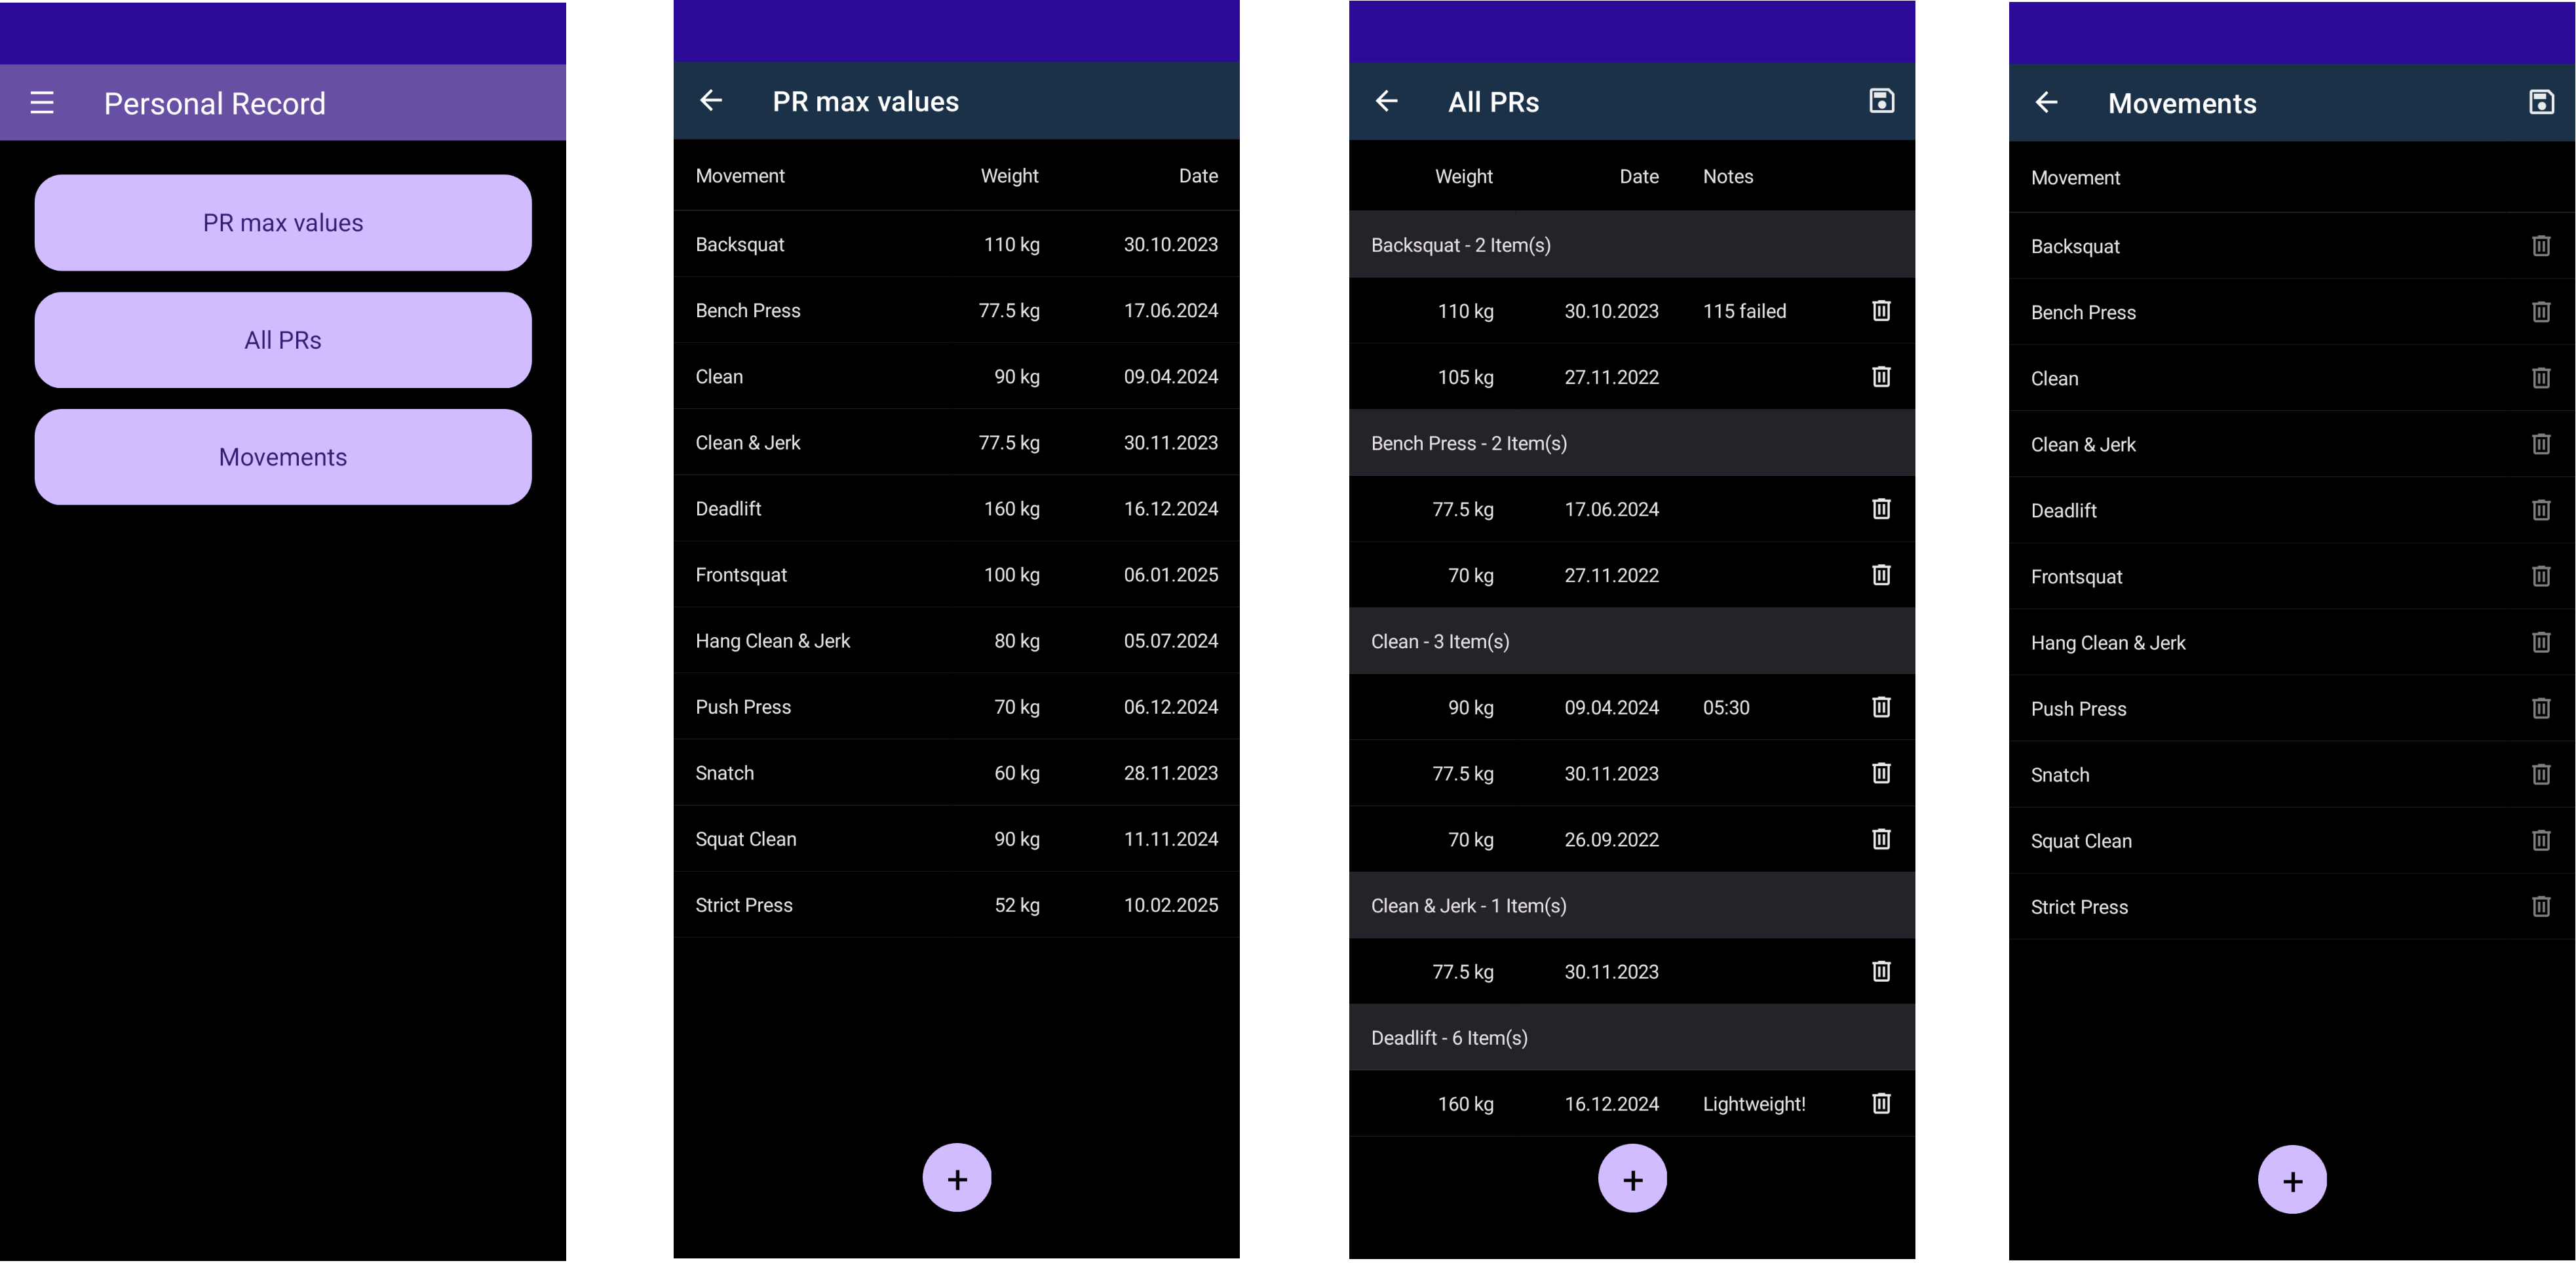
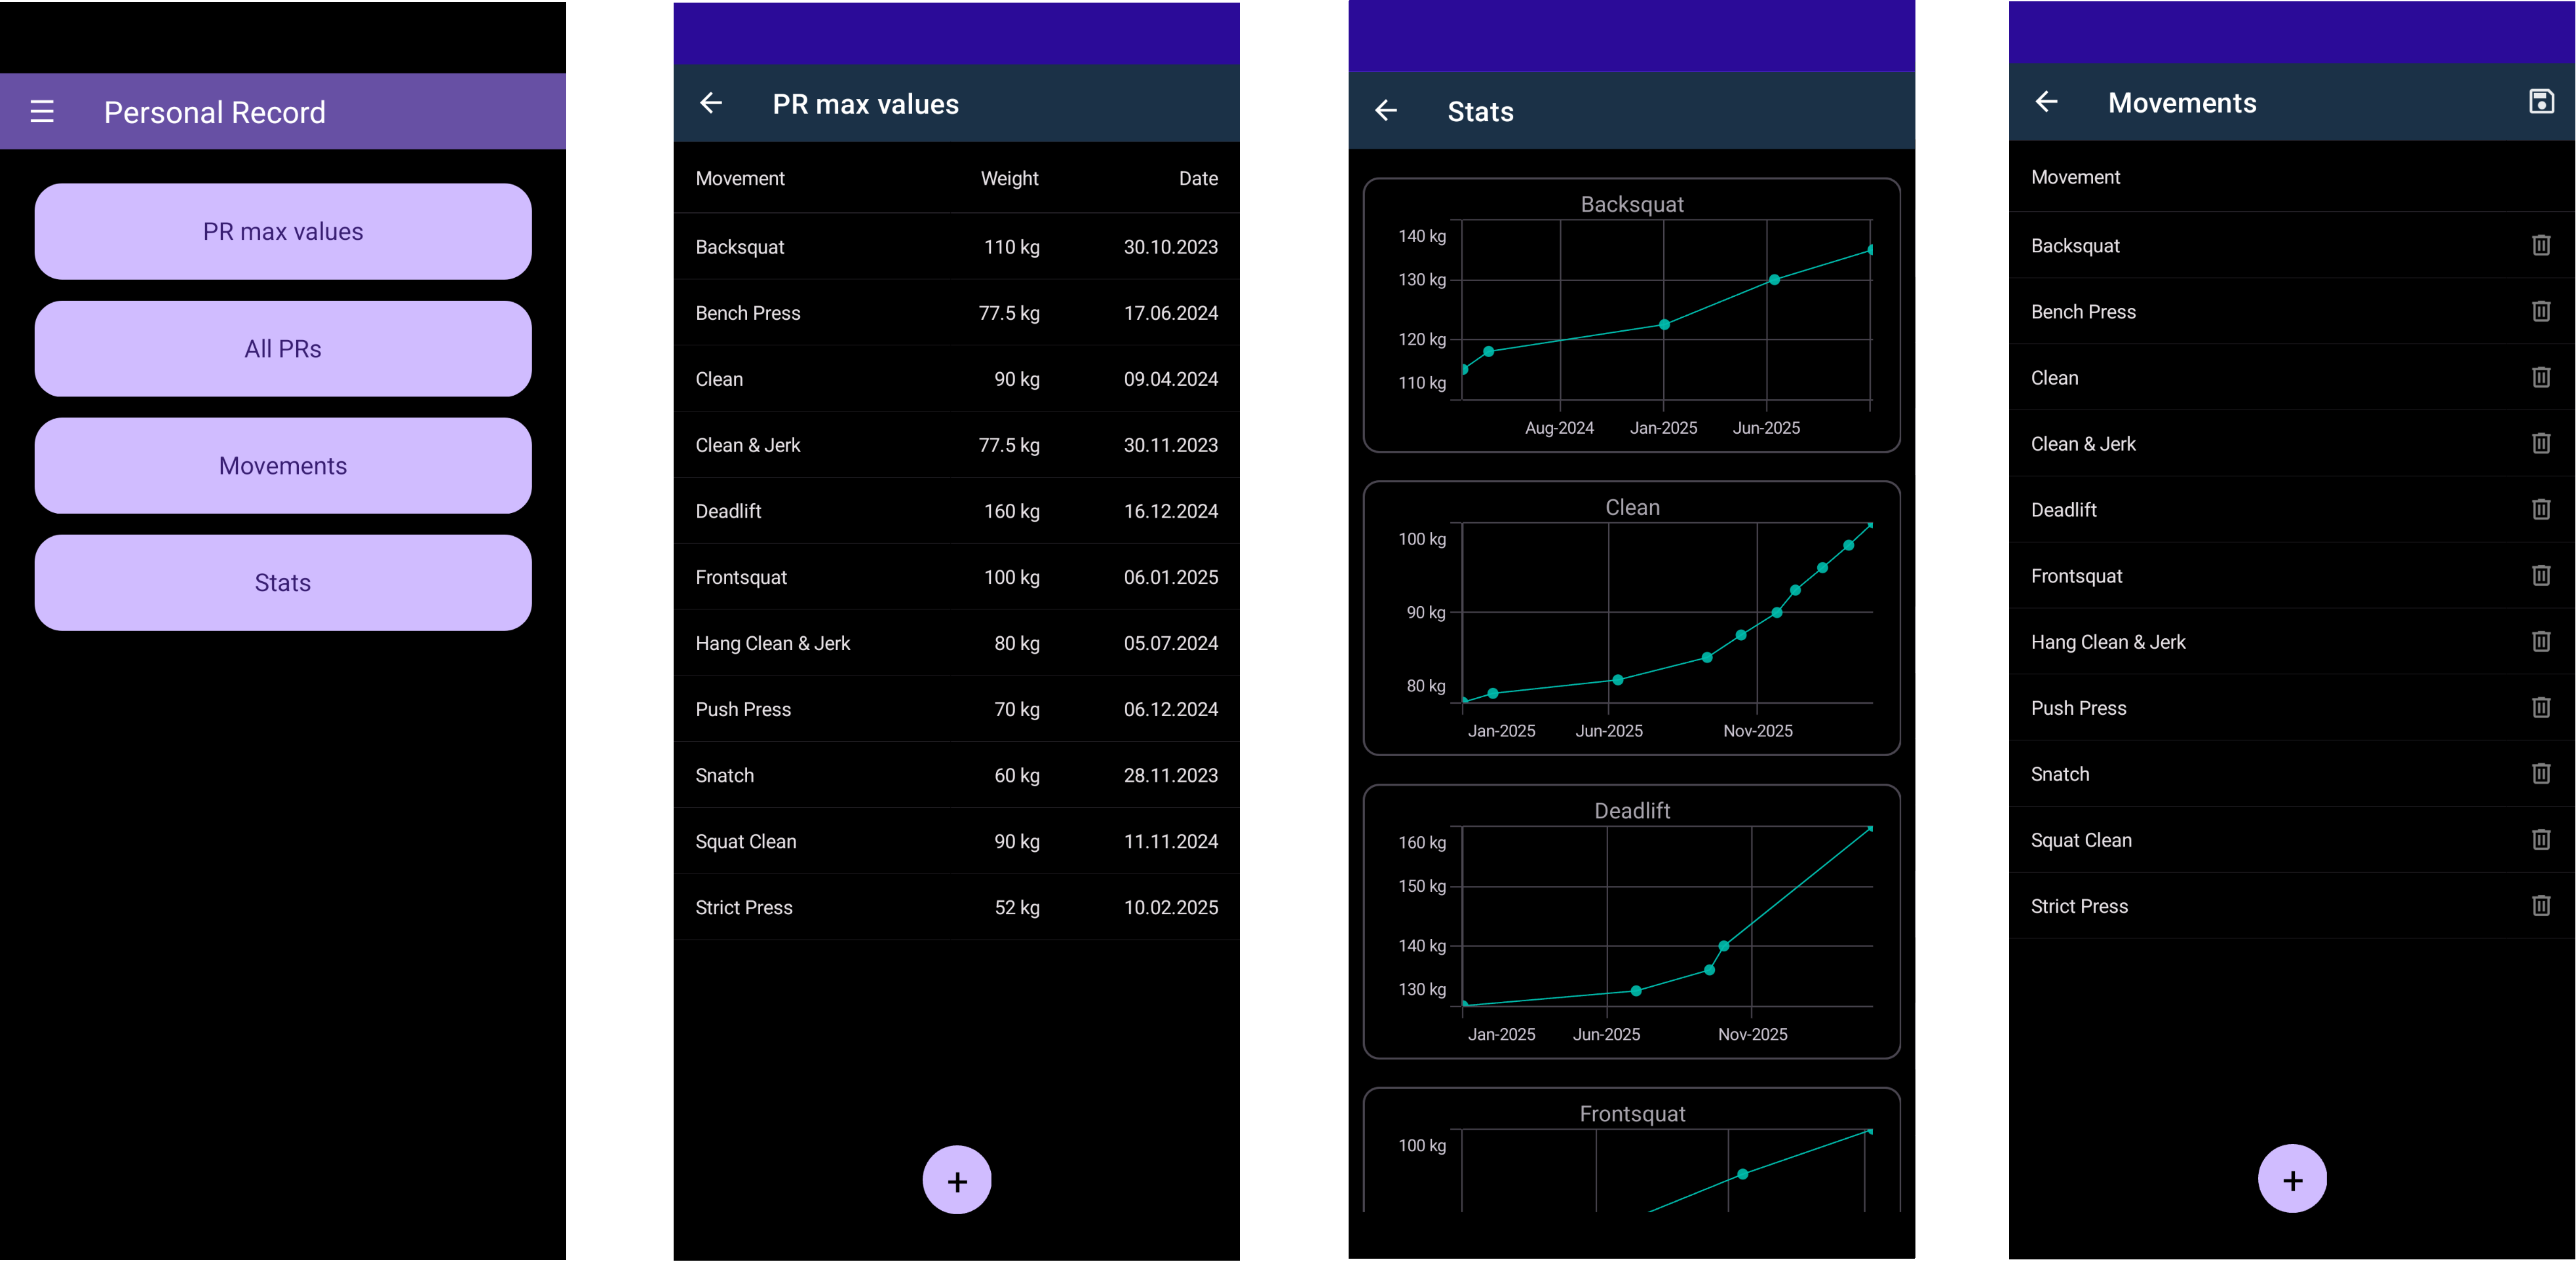
Merge pull request #64 from Ramo-Y/feature/Stats-view-and-ui-enhancement
Add stats view, update components, and use CPM

Pull request: Add stats view, update components, and use CPM

diff --git a/src/PersonalRecord.App/Views/StatsView.xaml b/src/PersonalRecord.App/Views/StatsView.xaml
@@ -1,0 +1,71 @@
+<?xml version="1.0" encoding="utf-8" ?>
+<ContentPage xmlns="http://schemas.microsoft.com/dotnet/2021/maui"
+             xmlns:x="http://schemas.microsoft.com/winfx/2009/xaml"
+             x:Class="PersonalRecord.App.Views.StatsView"
+             xmlns:chart="clr-namespace:Syncfusion.Maui.Charts;assembly=Syncfusion.Maui.Charts"
+             xmlns:cards="clr-namespace:Syncfusion.Maui.Cards;assembly=Syncfusion.Maui.Cards"
+             xmlns:viewModels="clr-namespace:PersonalRecord.App.ViewModels"
+             xmlns:entities="clr-namespace:PersonalRecord.Domain.Models.Entities;assembly=PersonalRecord.Domain"
+             xmlns:resources="clr-namespace:PersonalRecord.Infrastructure.Resources.Languages;assembly=PersonalRecord.Infrastructure"
+             x:DataType="viewModels:StatsViewModel"
+             Title="{x:Static resources:AppResources.Stats}">
+    <Grid>
+        <Grid.ColumnDefinitions>
+            <ColumnDefinition Width="10"/>
+            <ColumnDefinition Width="*"/>
+            <ColumnDefinition Width="10"/>
+        </Grid.ColumnDefinitions>
+        <Grid.RowDefinitions>
+            <RowDefinition Height="10"/>
+            <RowDefinition Height="*"/>
+            <RowDefinition Height="10"/>
+        </Grid.RowDefinitions>
+
+        <ScrollView Grid.Column="1"
+                    Grid.Row="1">
+            <StackLayout BindableLayout.ItemsSource="{Binding MovementRecordGroups}">
+                <BindableLayout.ItemTemplate>
+                    <DataTemplate x:DataType="entities:MovementRecordGroup">
+                        <cards:SfCardView Margin="0,10,0,10"
+                                          BorderWidth="3">
+                            <cards:SfCardLayout BackgroundColor="{AppThemeBinding Dark={StaticResource BackgroundBlack}, Light={StaticResource BackgroundWhite}}">
+                                <chart:SfCartesianChart>
+                                    <chart:SfCartesianChart.XAxes>
+                                        <chart:DateTimeAxis />
+                                    </chart:SfCartesianChart.XAxes>
+
+                                    <chart:SfCartesianChart.YAxes>
+                                        <chart:NumericalAxis>
+                                            <chart:NumericalAxis.LabelStyle>
+                                                <chart:ChartAxisLabelStyle LabelFormat="{Binding Source={RelativeSource AncestorType={x:Type viewModels:StatsViewModel}}, Path=Setting.WeightUnitFormat}" />
+                                            </chart:NumericalAxis.LabelStyle>
+                                        </chart:NumericalAxis>
+                                    </chart:SfCartesianChart.YAxes>
+
+                                    <chart:SfCartesianChart.Title>
+                                        <Label Text="{Binding GroupName}"
+                                               TextColor="{AppThemeBinding Dark={StaticResource LabelTextDark}, Light={StaticResource LabelTextLight}}"
+                                               BackgroundColor="{AppThemeBinding Dark={StaticResource BackgroundBlack}, Light={StaticResource BackgroundWhite}}"
+                                               HorizontalOptions="Fill"
+                                               HorizontalTextAlignment="Center"
+                                               VerticalOptions="Center"
+                                               FontSize="16" />
+                                    </chart:SfCartesianChart.Title>
+
+                                    <chart:LineSeries EnableTooltip="True"
+                                                      EnableAnimation="True"
+                                                      StrokeWidth="1"
+                                                      ShowMarkers="True"
+                                                      ItemsSource="{Binding MovementRecords}"
+                                                      XBindingPath="MvrDate"
+                                                      YBindingPath="MvrWeight">
+                                    </chart:LineSeries>
+                                </chart:SfCartesianChart>
+                            </cards:SfCardLayout>
+                        </cards:SfCardView>
+                    </DataTemplate>
+                </BindableLayout.ItemTemplate>
+            </StackLayout>
+        </ScrollView>
+    </Grid>
+</ContentPage>

diff --git a/src/PersonalRecord.App/Views/MainView.xaml b/src/PersonalRecord.App/Views/MainView.xaml
@@ -4,6 +4,7 @@
              x:Class="PersonalRecord.App.Views.MainView"
              x:Name="MainViewXaml"
              xmlns:viewModels="clr-namespace:PersonalRecord.App.ViewModels"
+             xmlns:app="clr-namespace:PersonalRecord.App"
              xmlns:button="clr-namespace:Syncfusion.Maui.Buttons;assembly=Syncfusion.Maui.Buttons"
              xmlns:navigationdrawer="clr-namespace:Syncfusion.Maui.NavigationDrawer;assembly=Syncfusion.Maui.NavigationDrawer"
              xmlns:popup="clr-namespace:Syncfusion.Maui.Popup;assembly=Syncfusion.Maui.Popup"
@@ -22,6 +23,8 @@
                     <Grid.RowDefinitions>
                         <RowDefinition Height="55"/>
                         <RowDefinition Height="25"/>
+                        <RowDefinition Height="70"/>
+                        <RowDefinition Height="15"/>
                         <RowDefinition Height="70"/>
                         <RowDefinition Height="15"/>
                         <RowDefinition Height="70"/>
@@ -56,17 +59,26 @@
                     <button:SfButton Grid.Column="1" Grid.Row="2"
                                      Text="{x:Static resources:AppResources.PersonalRecordMaxes}"
                                      FontSize="Medium"
-                                     Command="{Binding GoToPersonalRecordMaxesViewCommand}"/>
+                                     Command="{Binding GoToViewCommand}"
+                                     CommandParameter="{x:Static app:Routes.PersonalRecordMaxesView}"/>
 
                     <button:SfButton Grid.Column="1" Grid.Row="4"
                                      Text="{x:Static resources:AppResources.PersonalRecordsAll}"
                                      FontSize="Medium"
-                                     Command="{Binding GoToPersonalRecordAllViewCommand}"/>
+                                     Command="{Binding GoToViewCommand}"
+                                     CommandParameter="{x:Static app:Routes.PersonalRecordAllView}"/>
 
                     <button:SfButton Grid.Column="1" Grid.Row="6"
                                      Text="{x:Static resources:AppResources.Movements}"
                                      FontSize="Medium"
-                                     Command="{Binding GoToMovementsViewCommand}"/>
+                                     Command="{Binding GoToViewCommand}"
+                                     CommandParameter="{x:Static app:Routes.MovementsView}"/>
+
+                    <button:SfButton Grid.Column="1" Grid.Row="8"
+                                     Text="{x:Static resources:AppResources.Stats}"
+                                     FontSize="Medium"
+                                     Command="{Binding GoToViewCommand}"
+                                     CommandParameter="{x:Static app:Routes.StatsView}"/>
                 </Grid>
             </navigationdrawer:SfNavigationDrawer.ContentView>
 
@@ -127,7 +139,8 @@
                                              ImageSource="{AppThemeBinding Dark=settings_dark_theme.svg, Light=settings_light_theme.svg}"
                                              ShowIcon="True"
                                              Style="{StaticResource SfButtonCustomStyle}"
-                                             Command="{Binding GoToSettingsViewCommand}"/>
+                                             Command="{Binding GoToViewCommand}"
+                                             CommandParameter="{x:Static app:Routes.SettingsView}"/>
 
                             <button:SfButton Grid.Column="1" Grid.Row="2"
                                              Text="{x:Static resources:AppResources.ReportAProblem}"

diff --git a/src/PersonalRecord.App/Views/PersonalRecordDetailView.xaml b/src/PersonalRecord.App/Views/PersonalRecordDetailView.xaml
@@ -61,8 +61,8 @@
                                        Margin="5, 0"
                                        ContainerType="Outlined"
                                        Hint="{x:Static resources:AppResources.Notes}">
-            <Entry x:Name="customEntry" Text="{Binding MovementRecord.MvrNotes}">
-            </Entry>
+            <Entry x:Name="notesEntry"
+                   Text="{Binding MovementRecord.MvrNotes}" />
         </inputLayout:SfTextInputLayout>
 
         <button:SfButton Grid.Column="0" Grid.Row="9"

diff --git a/src/PersonalRecord.App/App.xaml b/src/PersonalRecord.App/App.xaml
@@ -15,6 +15,8 @@
             <!-- Custom colors -->
             <Color x:Key="TextWhite">#FFFFFF</Color>
             <Color x:Key="TextBlack">#000000</Color>
+            <Color x:Key="BackgroundWhite">#FFFFFF</Color>
+            <Color x:Key="BackgroundBlack">#000000</Color>
             <Color x:Key="TransparentBackground">#00FFFFFF</Color>
             <Color x:Key="LogoBackgroundColor">#00E1FB</Color>
             <Color x:Key="ToolBarBackgroundColor">#6750A4</Color>

diff --git a/src/PersonalRecord.App/ViewModels/StatsViewModel.cs b/src/PersonalRecord.App/ViewModels/StatsViewModel.cs
@@ -1,0 +1,59 @@
+namespace PersonalRecord.App.ViewModels
+{
+    using CommunityToolkit.Mvvm.ComponentModel;
+    using PersonalRecord.Domain.Interfaces;
+    using PersonalRecord.Domain.Models.Entities;
+    using PersonalRecord.Infrastructure;
+    using PersonalRecord.Services.Interfaces;
+    using System.Collections.ObjectModel;
+    using System.Linq;
+
+    public partial class StatsViewModel : ObservableObject
+    {
+        private readonly IMovementRecordRepository _movementRecordRepository;
+        private readonly ISettingsService _settingsService;
+
+        [ObservableProperty]
+        private ObservableCollection<MovementRecordGroup> _movementRecordGroups;
+
+        [ObservableProperty]
+        private Setting _setting;
+
+        public StatsViewModel(
+            IMovementRecordRepository movementRecordRepository,
+            ISettingsService settingsService)
+        {
+            _movementRecordRepository = movementRecordRepository;
+            _settingsService = settingsService;
+
+            MovementRecordGroups = [];
+
+            LoadItems();
+        }
+
+        private void LoadItems()
+        {
+            MainThread.BeginInvokeOnMainThread(async () =>
+            {
+                var movementRecords = await _movementRecordRepository.GetAllMovementRecordsAsync();
+                movementRecords = movementRecords.OrderBy(m => m.Movement.MovName)
+                                                 .ThenByDescending(m => m.MvrDate);
+
+                var grouped = movementRecords
+                                    .GroupBy(record => record.Movement.MovName)
+                                    .Select(group => new MovementRecordGroup
+                                    {
+                                        GroupName = group.Key,
+                                        MovementRecords = new ObservableCollection<MovementRecord>([.. group])
+                                    });
+
+                foreach (var group in grouped)
+                {
+                    MovementRecordGroups.Add(group);
+                }
+
+                Setting = _settingsService.GetSettings();
+            });
+        }
+    }
+}

diff --git a/src/PersonalRecord.App/ViewModels/MainViewModel.cs b/src/PersonalRecord.App/ViewModels/MainViewModel.cs
@@ -5,7 +5,6 @@
     using PersonalRecord.Infrastructure.Constants;
     using PersonalRecord.Infrastructure.Resources.Languages;
     using PersonalRecord.Services.Interfaces;
-    using System.Text;
 
     public partial class MainViewModel : ObservableObject
     {
@@ -47,27 +46,9 @@
         }
 
         [RelayCommand]
-        public async Task GoToPersonalRecordMaxesViewAsync()
+        public async Task GoToViewAsync(string route)
         {
-            await _navigationService.GoToAsync(Routes.PersonalRecordMaxesView);
-        }
-
-        [RelayCommand]
-        public async Task GoToMovementsViewAsync()
-        {
-            await _navigationService.GoToAsync(Routes.MovementsView);
-        }
-
-        [RelayCommand]
-        public async Task GoToPersonalRecordAllViewAsync()
-        {
-            await _navigationService.GoToAsync(Routes.PersonalRecordAllView);
-        }
-
-        [RelayCommand]
-        public async Task GoToSettingsViewAsync()
-        {
-            await _navigationService.GoToAsync(Routes.SettingsView);
+            await _navigationService.GoToAsync(route);
         }
 
         [RelayCommand]

diff --git a/src/PersonalRecord.App/Views/StatsView.xaml.cs b/src/PersonalRecord.App/Views/StatsView.xaml.cs
@@ -1,0 +1,14 @@
+using PersonalRecord.App.ViewModels;
+
+namespace PersonalRecord.App.Views
+{
+    public partial class StatsView : ContentPage
+    {
+        public StatsView(StatsViewModel viewModel)
+        {
+            InitializeComponent();
+
+            BindingContext = viewModel;
+        }
+    }
+}

diff --git a/src/PersonalRecord.Domain/Models/Entities/MovementRecordGroup.cs b/src/PersonalRecord.Domain/Models/Entities/MovementRecordGroup.cs
@@ -1,0 +1,11 @@
+namespace PersonalRecord.Domain.Models.Entities
+{
+    using System.Collections.ObjectModel;
+
+    public class MovementRecordGroup
+    {
+        public string GroupName { get; set; }
+
+        public ObservableCollection<MovementRecord> MovementRecords { get; set; }
+    }
+}

diff --git a/src/PersonalRecord.Infrastructure/Resources/Languages/AppResources.Designer.cs b/src/PersonalRecord.Infrastructure/Resources/Languages/AppResources.Designer.cs
@@ -19,7 +19,7 @@ namespace PersonalRecord.Infrastructure.Resources.Languages {
     // class via a tool like ResGen or Visual Studio.
     // To add or remove a member, edit your .ResX file then rerun ResGen
     // with the /str option, or rebuild your VS project.
-    [global::System.CodeDom.Compiler.GeneratedCodeAttribute("System.Resources.Tools.StronglyTypedResourceBuilder", "17.0.0.0")]
+    [global::System.CodeDom.Compiler.GeneratedCodeAttribute("System.Resources.Tools.StronglyTypedResourceBuilder", "18.0.0.0")]
     [global::System.Diagnostics.DebuggerNonUserCodeAttribute()]
     [global::System.Runtime.CompilerServices.CompilerGeneratedAttribute()]
     public class AppResources {
@@ -363,6 +363,15 @@ namespace PersonalRecord.Infrastructure.Resources.Languages {
         public static string ShowCommit {
             get {
                 return ResourceManager.GetString("ShowCommit", resourceCulture);
+            }
+        }
+        
+        /// <summary>
+        ///   Looks up a localized string similar to Stats.
+        /// </summary>
+        public static string Stats {
+            get {
+                return ResourceManager.GetString("Stats", resourceCulture);
             }
         }
         

diff --git a/src/PersonalRecord.App/Views/PersonalRecordDetailView.xaml.cs b/src/PersonalRecord.App/Views/PersonalRecordDetailView.xaml.cs
@@ -9,8 +9,8 @@ namespace PersonalRecord.App.Views
             InitializeComponent();
 
             BindingContext = viewmodel;
-            
-            customEntry.Keyboard = Keyboard.Create(KeyboardFlags.CapitalizeSentence);
+
+            notesEntry.Keyboard = Keyboard.Create(KeyboardFlags.CapitalizeSentence);
         }
     }
 }

diff --git a/src/PersonalRecord.App/MauiProgram.cs b/src/PersonalRecord.App/MauiProgram.cs
@@ -41,6 +41,7 @@
             builder.Services.AddTransient<PersonalRecordDetailView>();
             builder.Services.AddTransient<PersonalRecordMaxesView>();
             builder.Services.AddTransient<SettingsView>();
+            builder.Services.AddTransient<StatsView>();
 
             // Register ViewModels
             builder.Services.AddTransient<MainViewModel>();
@@ -49,6 +50,7 @@
             builder.Services.AddTransient<PersonalRecordDetailViewModel>();
             builder.Services.AddTransient<PersonalRecordMaxesViewModel>();
             builder.Services.AddTransient<SettingsViewModel>();
+            builder.Services.AddTransient<StatsViewModel>();
 
             // Register services
             builder.Services.AddSingleton<INavigationService, NavigationService>();

diff --git a/src/PersonalRecord.App/ViewModels/SettingsViewModel.cs b/src/PersonalRecord.App/ViewModels/SettingsViewModel.cs
@@ -30,7 +30,7 @@
 
         public IEnumerable<Language> Languages
         {
-            get => Enum.GetValues(typeof(Language)).Cast<Language>();
+            get => Enum.GetValues<Language>().Cast<Language>();
         }
 
         [RelayCommand]